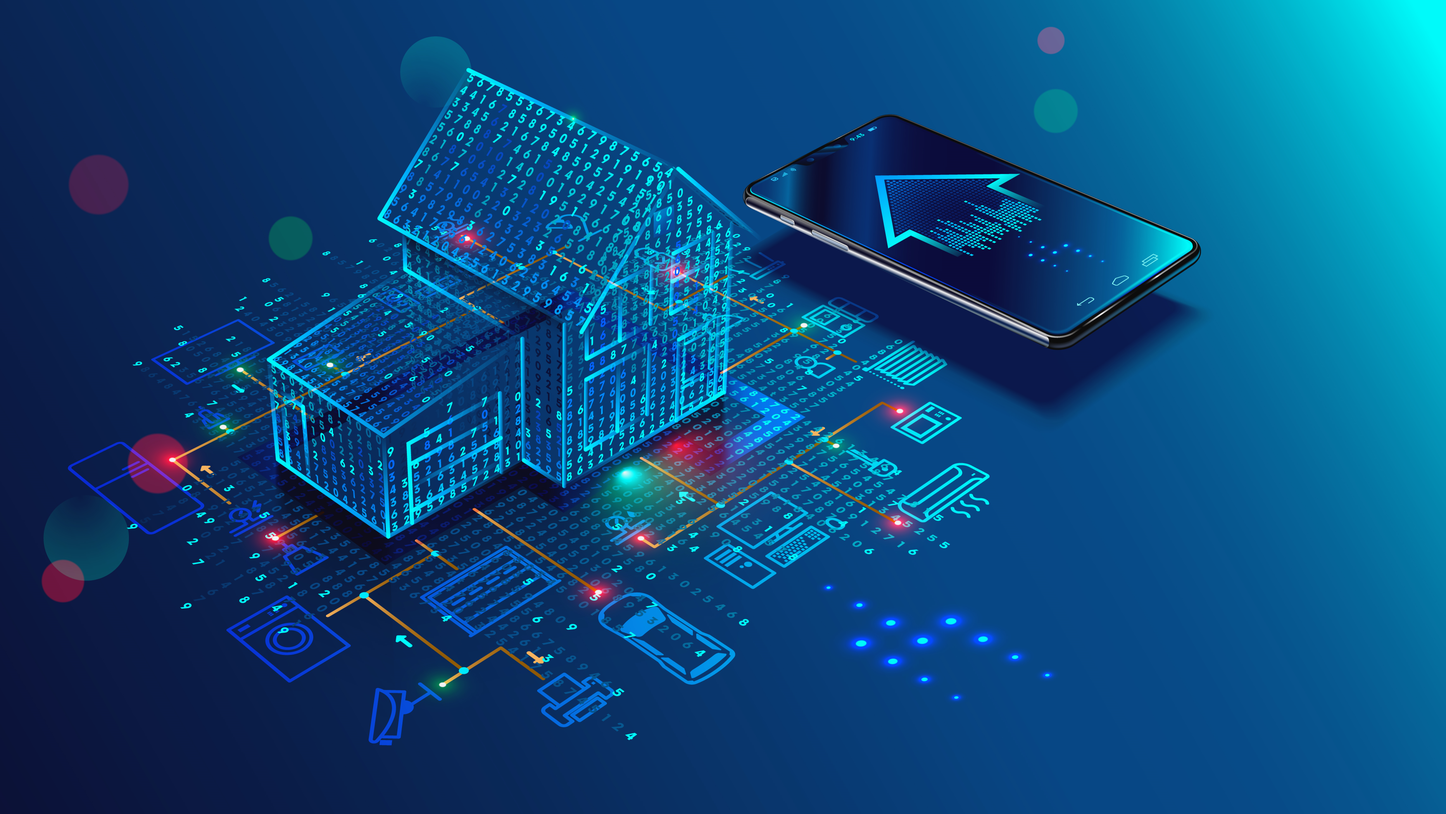
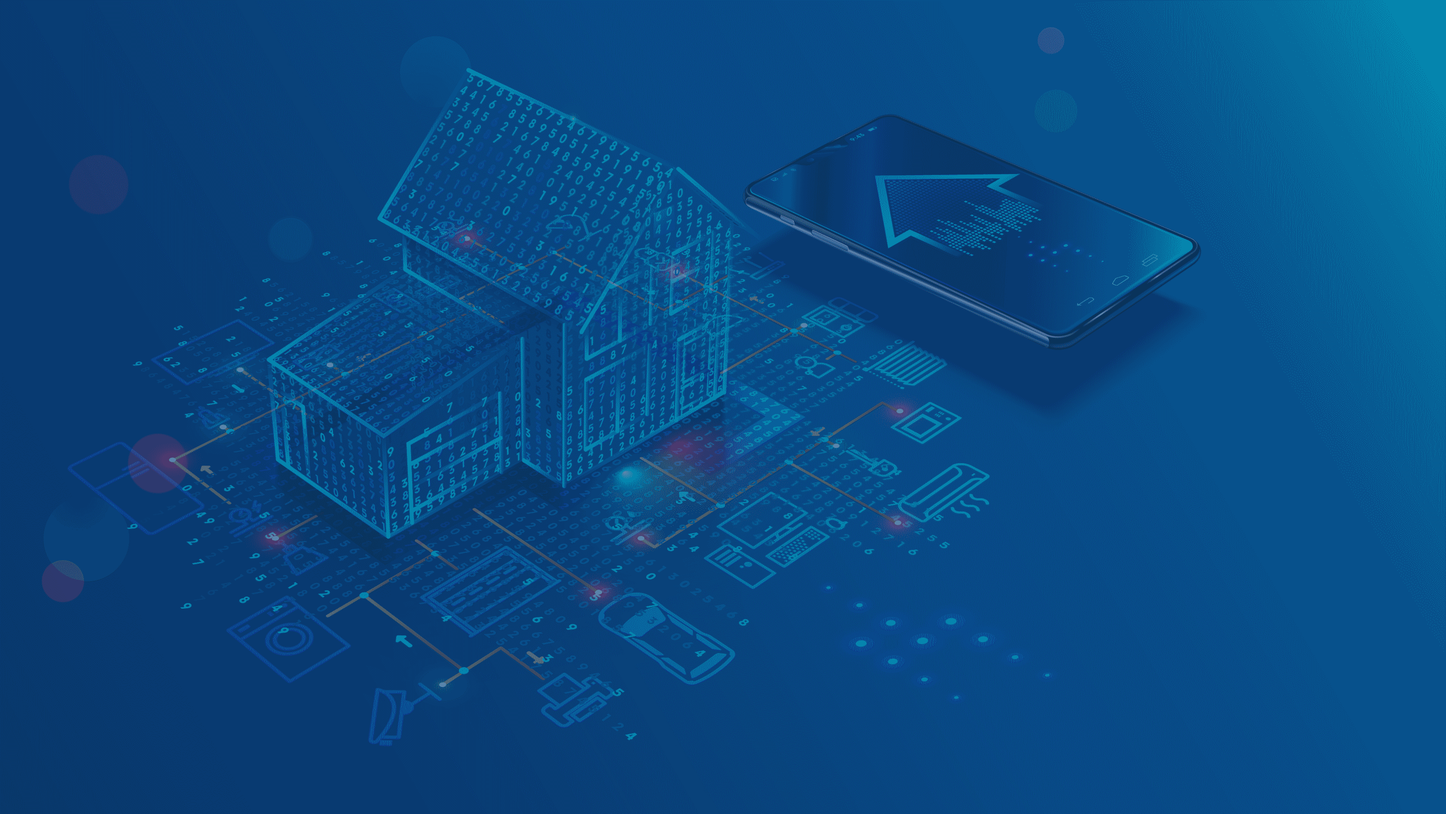
Register link update and hero image opacity layer
Updated registration link to submit link, added blue opaque layer to landing hero image to make text easier to read

diff --git a/index.html b/index.html
@@ -120,7 +120,7 @@
 
                         <div class="header_extra ml-auto">
                           <div class="button header_button">
-                            <a href="http://aaaiconf.cvent.com/events/aaai-20/event-summary-92a1ebc42cc34d5696d19711ace8def6.aspx">Register</a>
+                            <a href="https://cmt3.research.microsoft.com/AIOT2020/Submission/Index">Submit</a>
                           </div>
                         </div>
                       </div>

diff --git a/organizers.html b/organizers.html
@@ -120,7 +120,7 @@
 
                         <div class="header_extra ml-auto">
                           <div class="button header_button">
-                            <a href="http://aaaiconf.cvent.com/events/aaai-20/event-summary-92a1ebc42cc34d5696d19711ace8def6.aspx">Register</a>
+                            <a href="https://cmt3.research.microsoft.com/AIOT2020/Submission/Index">Submit</a>
                           </div>
                         </div>
                       </div>

diff --git a/CFP.html b/CFP.html
@@ -124,8 +124,7 @@
 
 												<div class="header_extra ml-auto">
 													<div class="button header_button">
-														<a
-															href="http://aaaiconf.cvent.com/events/aaai-20/event-summary-92a1ebc42cc34d5696d19711ace8def6.aspx">Register</a>
+														<a href="https://cmt3.research.microsoft.com/AIOT2020/Submission/Index">Submit</a>
 													</div>
 												</div>
 											</div>
